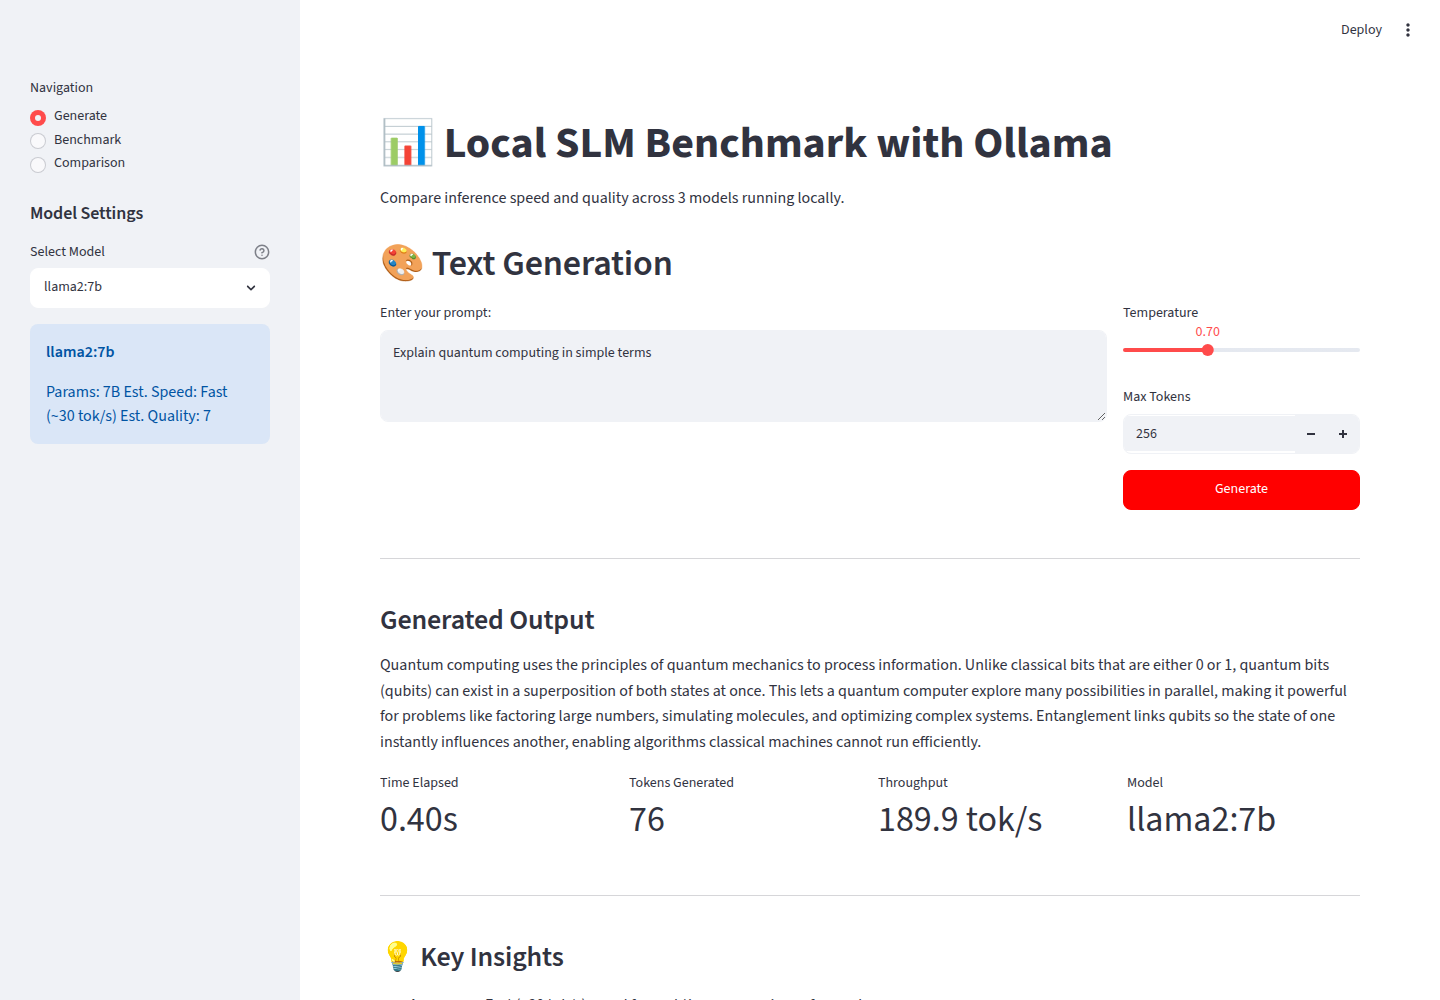
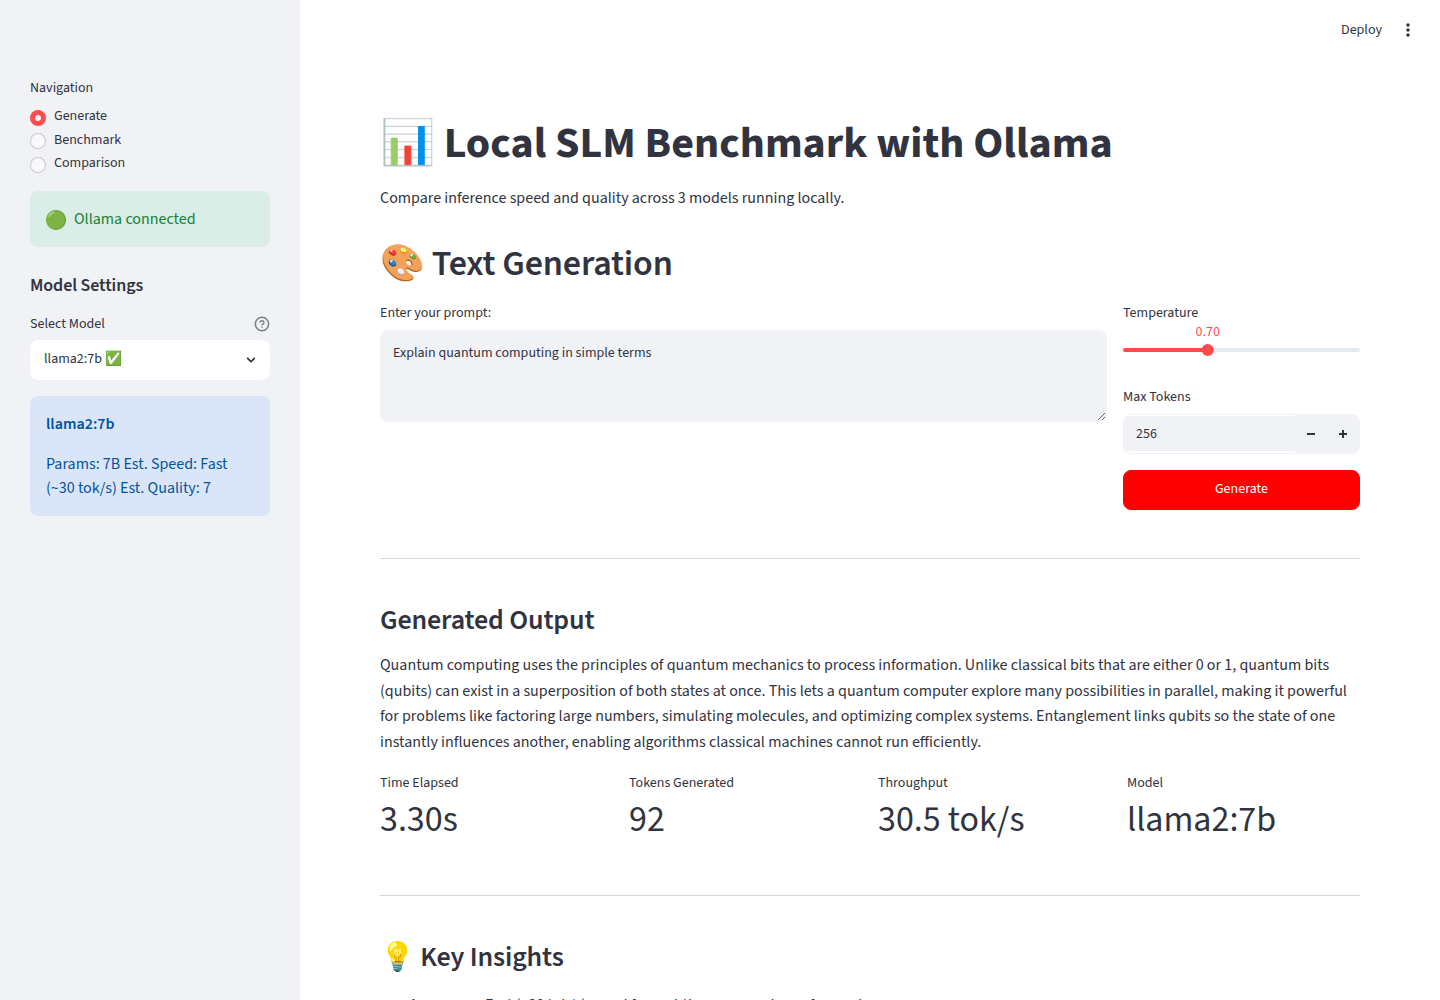
Add streaming output, accurate metrics, model auto-detection, and error handling
- Stream generation token-by-token in the Generate tab via st.write_stream
- Compute throughput from Ollama's real eval_count/eval_duration instead of a
  word-count estimate
- Detect Ollama availability and installed models; show connection status, an
  install indicator per model, and a one-click pull button for missing models
- Raise friendly, actionable errors (OllamaError) when Ollama is down, times
  out, or a model isn't pulled
- Refresh the Generate screenshot to reflect the new UI

Claude-Session: https://claude.ai/code/session_01VFJRXnEp9wbmSCKbJMjmBF

diff --git a/inference.py b/inference.py
@@ -1,7 +1,12 @@
 import requests
 import json
-from typing import Dict, Any
+from typing import Dict, Any, Iterator
 from config import OLLAMA_HOST
+
+
+class OllamaError(Exception):
+    """User-friendly error raised when an Ollama request cannot be completed."""
+
 
 class OllamaInference:
     """Interface for communicating with Ollama."""
@@ -9,6 +14,36 @@ class OllamaInference:
     def __init__(self, host: str = OLLAMA_HOST):
         self.host = host
         self.generate_url = f"{host}/api/generate"
+
+    def _friendly_error(self, exc: Exception, model: str = None) -> "OllamaError":
+        """Translate a low-level request error into an actionable message."""
+        if isinstance(exc, requests.exceptions.ConnectionError):
+            return OllamaError(
+                f"Cannot reach Ollama at {self.host}. Is it running? "
+                f"Start it with `ollama serve`."
+            )
+        if isinstance(exc, requests.exceptions.Timeout):
+            return OllamaError(
+                "Ollama timed out. The model may still be loading, or the "
+                "prompt/token count is too large."
+            )
+        if isinstance(exc, requests.exceptions.HTTPError):
+            status = getattr(exc.response, "status_code", None)
+            if status == 404 and model:
+                return OllamaError(
+                    f"Model '{model}' isn't available locally. "
+                    f"Pull it with `ollama pull {model}`."
+                )
+            return OllamaError(f"Ollama returned an error (HTTP {status}).")
+        return OllamaError(f"Ollama request failed: {exc}")
+
+    def _options(self, temperature, num_predict, top_p, top_k) -> Dict[str, Any]:
+        return {
+            "temperature": temperature,
+            "num_predict": num_predict,
+            "top_p": top_p,
+            "top_k": top_k,
+        }
 
     def generate(
         self,
@@ -20,22 +55,23 @@ class OllamaInference:
         top_k: int = 40,
     ) -> Dict[str, Any]:
         """
-        Generate text using Ollama.
+        Generate text using Ollama (non-streaming).
 
-        Returns dict with 'text' and 'model' keys.
+        Returns dict with 'text', 'model', 'tokens_generated' (real eval_count),
+        and 'time_seconds' (eval_duration) keys.
         """
         payload = {
             "model": model,
             "prompt": prompt,
             "stream": False,
-            "temperature": temperature,
-            "num_predict": num_predict,
-            "top_p": top_p,
-            "top_k": top_k,
+            "options": self._options(temperature, num_predict, top_p, top_k),
         }
 
-        response = requests.post(self.generate_url, json=payload, timeout=300)
-        response.raise_for_status()
+        try:
+            response = requests.post(self.generate_url, json=payload, timeout=300)
+            response.raise_for_status()
+        except requests.exceptions.RequestException as exc:
+            raise self._friendly_error(exc, model) from exc
 
         data = response.json()
         return {
@@ -45,29 +81,86 @@ class OllamaInference:
             "time_seconds": data.get("eval_duration", 0) / 1e9,
         }
 
-    def list_models(self) -> list:
-        """List available models in Ollama."""
+    def generate_stream(
+        self,
+        model: str,
+        prompt: str,
+        stats: Dict[str, Any],
+        temperature: float = 0.7,
+        num_predict: int = 256,
+        top_p: float = 0.9,
+        top_k: int = 40,
+    ) -> Iterator[str]:
+        """
+        Stream text from Ollama token-by-token.
+
+        Yields text chunks (suitable for ``st.write_stream``). Final metrics
+        (tokens_generated, eval_seconds, total_seconds) are written into the
+        provided ``stats`` dict once generation completes.
+        """
+        payload = {
+            "model": model,
+            "prompt": prompt,
+            "stream": True,
+            "options": self._options(temperature, num_predict, top_p, top_k),
+        }
+
         try:
-            response = requests.get(f"{self.host}/api/tags")
+            with requests.post(
+                self.generate_url, json=payload, timeout=300, stream=True
+            ) as response:
+                response.raise_for_status()
+                for line in response.iter_lines():
+                    if not line:
+                        continue
+                    data = json.loads(line)
+                    chunk = data.get("response", "")
+                    if chunk:
+                        yield chunk
+                    if data.get("done"):
+                        stats["tokens_generated"] = data.get("eval_count", 0)
+                        stats["eval_seconds"] = data.get("eval_duration", 0) / 1e9
+                        stats["total_seconds"] = data.get("total_duration", 0) / 1e9
+        except requests.exceptions.RequestException as exc:
+            raise self._friendly_error(exc, model) from exc
+
+    def list_models(self) -> list:
+        """List available models in Ollama. Returns [] if Ollama is unreachable."""
+        try:
+            response = requests.get(f"{self.host}/api/tags", timeout=5)
             response.raise_for_status()
             data = response.json()
             return [model["name"] for model in data.get("models", [])]
-        except Exception as e:
-            print(f"Error listing models: {e}")
+        except requests.exceptions.RequestException:
             return []
 
-    def pull_model(self, model: str) -> bool:
-        """Download a model from the Ollama registry."""
+    def is_available(self) -> bool:
+        """Return True if the Ollama server responds."""
         try:
-            payload = {"name": model}
+            requests.get(f"{self.host}/api/tags", timeout=5).raise_for_status()
+            return True
+        except requests.exceptions.RequestException:
+            return False
+
+    def has_model(self, model: str) -> bool:
+        """Return True if ``model`` is installed locally (tolerant of :latest)."""
+        installed = self.list_models()
+        if model in installed:
+            return True
+        base = model.split(":")[0]
+        return any(m.split(":")[0] == base for m in installed)
+
+    def pull_model(self, model: str) -> bool:
+        """Download a model from the Ollama registry (blocks until complete)."""
+        try:
+            payload = {"name": model, "stream": False}
             response = requests.post(
                 f"{self.host}/api/pull",
                 json=payload,
                 timeout=None,  # No timeout for long download
-                stream=True
             )
             response.raise_for_status()
             return True
-        except Exception as e:
-            print(f"Error pulling model: {e}")
+        except requests.exceptions.RequestException as exc:
+            print(f"Error pulling model: {exc}")
             return False

diff --git a/app.py b/app.py
@@ -2,7 +2,7 @@ import streamlit as st
 import time
 import json
 from datetime import datetime
-from inference import OllamaInference
+from inference import OllamaInference, OllamaError
 from benchmark import run_benchmark, load_benchmark_results
 from config import MODELS, BENCHMARK_PROMPTS
 
@@ -22,14 +22,43 @@ if "benchmark_results" not in st.session_state:
 if "inference_history" not in st.session_state:
     st.session_state.inference_history = []
 
+# Shared Ollama client + availability detection
+inference = OllamaInference()
+ollama_up = inference.is_available()
+installed_models = inference.list_models() if ollama_up else []
+
+
+def model_installed(name: str) -> bool:
+    """True if a configured model is present locally (tolerant of :latest)."""
+    base = name.split(":")[0]
+    return name in installed_models or any(
+        m.split(":")[0] == base for m in installed_models
+    )
+
+
 # Sidebar navigation
 page = st.sidebar.radio("Navigation", ["Generate", "Benchmark", "Comparison"])
 
-# Model selector
+# Connection status
+if ollama_up:
+    st.sidebar.success("🟢 Ollama connected")
+else:
+    st.sidebar.error("🔴 Ollama not reachable — start it with `ollama serve`")
+
+# Model selector — label each model with its install status
 st.sidebar.markdown("### Model Settings")
+
+
+def model_label(name: str) -> str:
+    if not ollama_up:
+        return name
+    return f"{name} {'✅' if model_installed(name) else '⬇ not pulled'}"
+
+
 selected_model = st.sidebar.selectbox(
     "Select Model",
     options=list(MODELS.keys()),
+    format_func=model_label,
     help="Choose which model to use for inference"
 )
 
@@ -40,6 +69,17 @@ st.sidebar.info(
     f"Est. Speed: {model_info['speed']}\n"
     f"Est. Quality: {model_info['quality']}"
 )
+
+# Offer to pull the selected model if it isn't installed
+if ollama_up and not model_installed(selected_model):
+    st.sidebar.warning(f"`{selected_model}` is not pulled yet.")
+    if st.sidebar.button(f"⬇ Pull {selected_model}", use_container_width=True):
+        with st.spinner(f"Pulling {selected_model} (this can take a while)..."):
+            if inference.pull_model(selected_model):
+                st.sidebar.success(f"Pulled {selected_model}!")
+                st.rerun()
+            else:
+                st.sidebar.error(f"Failed to pull {selected_model}.")
 
 if page == "Generate":
     st.header("🎨 Text Generation")
@@ -59,31 +99,40 @@ if page == "Generate":
 
     if run_button and prompt:
         st.divider()
-        inference = OllamaInference()
 
-        with st.spinner(f"Generating with {selected_model}..."):
+        # Display results — stream tokens as they arrive
+        st.markdown("### Generated Output")
+        stats = {}
+        try:
             start_time = time.time()
-            response = inference.generate(
-                model=selected_model,
-                prompt=prompt,
-                temperature=temperature,
-                num_predict=max_tokens
+            output_text = st.write_stream(
+                inference.generate_stream(
+                    model=selected_model,
+                    prompt=prompt,
+                    stats=stats,
+                    temperature=temperature,
+                    num_predict=max_tokens,
+                )
             )
             elapsed = time.time() - start_time
+        except OllamaError as exc:
+            st.error(f"⚠ {exc}")
+            st.stop()
 
-        # Display results
-        st.markdown("### Generated Output")
-        st.write(response["text"])
+        # Real token accounting from Ollama (falls back to wall-clock if absent)
+        tokens = stats.get("tokens_generated", 0)
+        eval_seconds = stats.get("eval_seconds", 0)
+        tps = tokens / eval_seconds if eval_seconds > 0 else (
+            tokens / elapsed if elapsed > 0 else 0
+        )
 
         # Performance metrics
         col1, col2, col3, col4 = st.columns(4)
         with col1:
             st.metric("Time Elapsed", f"{elapsed:.2f}s")
         with col2:
-            tokens = len(response["text"].split())
             st.metric("Tokens Generated", tokens)
         with col3:
-            tps = tokens / elapsed if elapsed > 0 else 0
             st.metric("Throughput", f"{tps:.1f} tok/s")
         with col4:
             st.metric("Model", selected_model)
@@ -93,7 +142,7 @@ if page == "Generate":
             "timestamp": datetime.now().isoformat(),
             "model": selected_model,
             "prompt": prompt,
-            "output": response["text"],
+            "output": output_text,
             "time_elapsed": elapsed,
             "tokens_generated": tokens,
             "throughput": tps

diff --git a/README.md b/README.md
@@ -73,10 +73,14 @@ Compare speed, latency, quality ratings, and parameter counts across models in o
 ## 📖 Usage
 
 ### 1. **Generate Tab** - Interactive Text Generation
-- Select a model
+- Select a model — the sidebar shows a live **🟢 Ollama connected** status and marks
+  each model as installed (✅) or not pulled (⬇), with a one-click **Pull** button
 - Enter any prompt
 - Adjust temperature and max tokens
-- See real-time performance metrics (tokens/sec, latency)
+- Watch the response **stream token-by-token** as it's generated
+- See accurate performance metrics — throughput is computed from Ollama's real
+  `eval_count` / `eval_duration` (not a word-count estimate)
+- Friendly error messages if Ollama isn't running or the model isn't pulled
 
 ### 2. **Benchmark Tab** - Run Full Suite
 - Benchmark all 3 models on 13 standardized prompts
